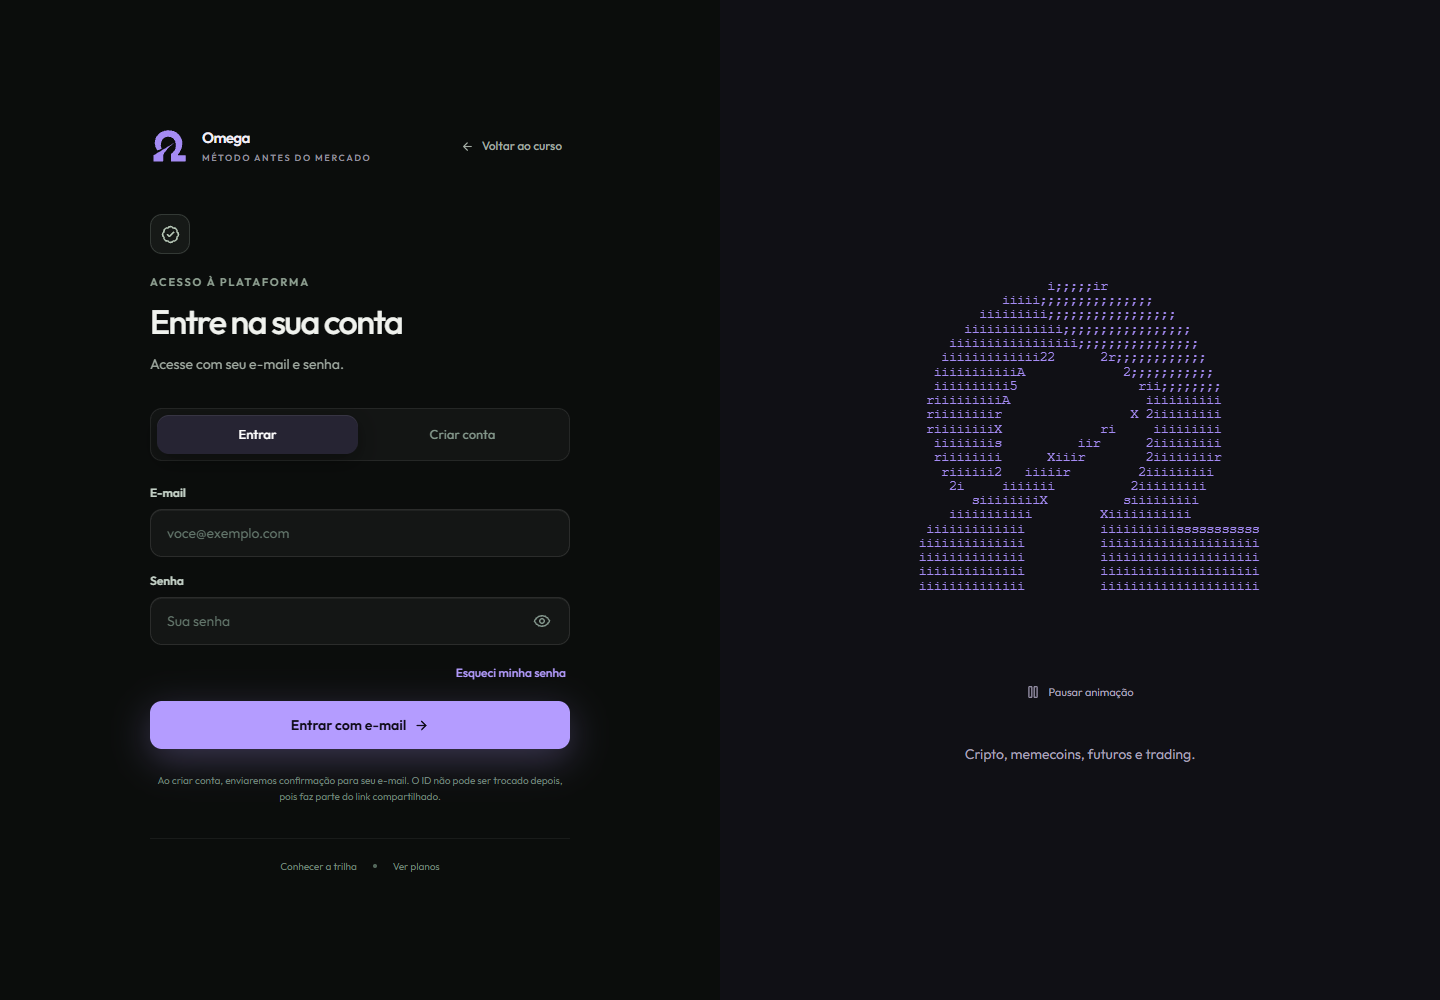
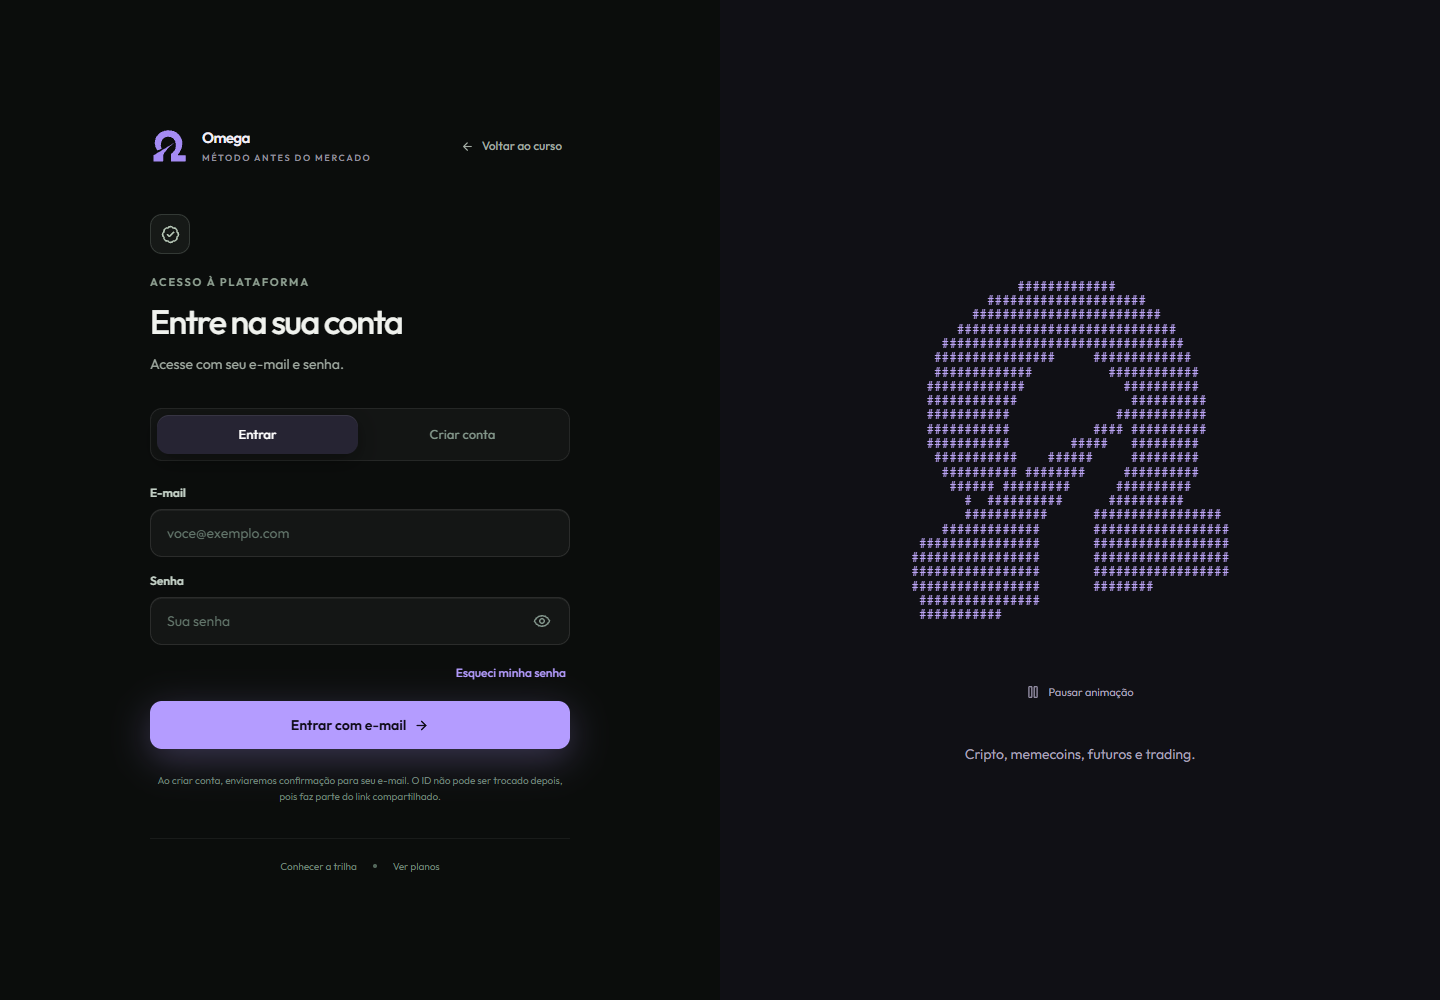
fix: make Omega login animation visible across screen sizes

Changed region(s): [[0.625, 0.279, 0.875, 0.62]]

diff --git a/src/components/ui/omega-login-ascii.tsx b/src/components/ui/omega-login-ascii.tsx
@@ -7,6 +7,7 @@ import { omegaContours } from '@/lib/omega-copy'
 
 export interface AsciiModelViewerProps {
   className?: string; paused?: boolean; baseScale?: number; userScale?: number
+  motionEnabled?: boolean
   resolution?: number; characters?: string; fgColor?: string; bgColor?: string
   invert?: boolean; autoRotateSpeed?: number; position?: [number, number, number]
   showLoadingOverlay?: boolean
@@ -31,8 +32,8 @@ function Trajectory({ scale, paused, speed }: { scale: number; paused: boolean; 
   const geometries = useMemo(() => {
     const svg = `<svg xmlns="http://www.w3.org/2000/svg">${omegaContours.map(d => `<path d="${d}"/>`).join('')}</svg>`
     return new SVGLoader().parse(svg).paths.flatMap(path => SVGLoader.createShapes(path as unknown as Parameters<typeof SVGLoader.createShapes>[0]).map(shape => {
-      const geometry = new ExtrudeGeometry(shape, { depth: 12, bevelEnabled: true, bevelSegments: 2, steps: 1, bevelSize: 1, bevelThickness: 1, curveSegments: 24 })
-      geometry.translate(-120, -110, -6)
+      const geometry = new ExtrudeGeometry(shape, { depth: 20, bevelEnabled: true, bevelSegments: 2, steps: 1, bevelSize: 1, bevelThickness: 1, curveSegments: 24 })
+      geometry.translate(-120, -110, -10)
       return geometry
     }))
   }, [])
@@ -40,10 +41,12 @@ function Trajectory({ scale, paused, speed }: { scale: number; paused: boolean; 
   useFrame((_, delta) => {
     if (!group.current || paused) return
     phase.current += Math.min(delta, .1) * speed
-    group.current.rotation.y = Math.sin(phase.current) * .21
-    group.current.rotation.x = Math.sin(phase.current * .65) * .06
+    group.current.rotation.y = Math.sin(phase.current) * .55
+    group.current.rotation.x = Math.sin(phase.current * .65) * .1
   })
-  return <group ref={group} scale={[.01 * scale, -.01 * scale, .01 * scale]}>{geometries.map((geometry, i) => <mesh key={i} geometry={geometry}><meshStandardMaterial color="#bca5f6" roughness={.55} metalness={.15} /></mesh>)}</group>
+  // AsciiEffect maps bright pixels to spaces; keep the material dark enough
+  // to retain the silhouette while lighting reveals the extruded edges.
+  return <group ref={group} scale={[.01 * scale, -.01 * scale, .01 * scale]}>{geometries.map((geometry, i) => <mesh key={i} geometry={geometry}><meshStandardMaterial color="#302638" roughness={.7} metalness={0} /></mesh>)}</group>
 }
 
 function AsciiRenderer({ resolution, characters, fgColor, bgColor, invert, paused }: Required<Pick<AsciiModelViewerProps, 'resolution' | 'characters' | 'fgColor' | 'bgColor' | 'invert' | 'paused'>>) {
@@ -73,11 +76,11 @@ function AsciiRenderer({ resolution, characters, fgColor, bgColor, invert, pause
   return null
 }
 
-export default function AsciiModelViewer({ className = '', paused = false, baseScale = 1, userScale = 1, resolution = .14, characters = ' .,:;irsXA253hMHGS#9B&@', fgColor = 'var(--omega-accent)', bgColor = 'transparent', invert = false, autoRotateSpeed = .5 }: AsciiModelViewerProps) {
-  const [staticMode, ready] = useStaticMode()
+export default function AsciiModelViewer({ className = '', paused = false, motionEnabled = false, baseScale = 1, userScale = 1, resolution = .14, characters = ' .:+###', fgColor = '#bca5f6', bgColor = 'transparent', invert = false, autoRotateSpeed = .85 }: AsciiModelViewerProps) {
+  const [staticMode, ready] = useStaticMode(motionEnabled)
   return <div className={`ascii-viewer ${className}`} aria-hidden="true">
     {!ready || staticMode ? <StaticMark /> : <SceneBoundary><Canvas frameloop="demand" dpr={1} camera={{ position: [0, 0, 3.4], fov: 43 }} gl={{ alpha: true, antialias: false, powerPreference: 'low-power' }} fallback={<StaticMark />}>
-      <ambientLight intensity={1.7} /><directionalLight position={[2, 3, 5]} intensity={3} color="#e2d7fa" />
+      <ambientLight intensity={.8} /><directionalLight position={[2, 3, 5]} intensity={1.5} color="#e2d7fa" />
       <Trajectory scale={baseScale * userScale} paused={paused} speed={autoRotateSpeed} />
       <AsciiRenderer resolution={resolution} characters={characters} fgColor={fgColor} bgColor={bgColor} invert={invert} paused={paused} />
     </Canvas></SceneBoundary>}
@@ -85,18 +88,15 @@ export default function AsciiModelViewer({ className = '', paused = false, baseS
 }
 
 // Render a deterministic flat fallback first, including SSR and reduced-motion devices.
-function useStaticMode() {
+function useStaticMode(motionEnabled: boolean) {
   const [value, setValue] = useState<[boolean, boolean]>([true, false])
   useEffect(() => {
     const query = matchMedia('(prefers-reduced-motion: reduce)')
-    const mobile = matchMedia('(max-width: 1023px)')
     const update = () => {
-      const memory = (navigator as Navigator & { deviceMemory?: number }).deviceMemory
-      const constrained = (memory !== undefined && memory <= 2) || (navigator.hardwareConcurrency > 0 && navigator.hardwareConcurrency <= 2)
-      setValue([query.matches || mobile.matches || constrained, true])
+      setValue([query.matches && !motionEnabled, true])
     }
-    update(); query.addEventListener('change', update); mobile.addEventListener('change', update)
-    return () => { query.removeEventListener('change', update); mobile.removeEventListener('change', update) }
-  }, [])
+    update(); query.addEventListener('change', update)
+    return () => query.removeEventListener('change', update)
+  }, [motionEnabled])
   return value
 }

diff --git a/src/components/omega-login-scene.tsx b/src/components/omega-login-scene.tsx
@@ -1,4 +1,4 @@
-import { lazy, Suspense, useState } from 'react'
+import { lazy, Suspense, useState, useSyncExternalStore } from 'react'
 import { useReducedMotion } from 'framer-motion'
 import { Pause, Play } from 'lucide-react'
 import { OmegaSymbol } from '@/components/brand'
@@ -6,16 +6,27 @@ import { omegaCopy } from '@/lib/omega-copy'
 
 const OmegaAscii = lazy(() => import('@/components/ui/omega-login-ascii'))
 function StaticSymbol() { return <div className="omega-login-static"><OmegaSymbol /></div> }
+function subscribeViewport(notify: () => void) {
+  const query = matchMedia('(min-width: 1024px)')
+  query.addEventListener('change', notify)
+  return () => query.removeEventListener('change', notify)
+}
+const desktopSnapshot = () => matchMedia('(min-width: 1024px)').matches
 
-export function OmegaLoginScene() {
+export function OmegaLoginScene({ compact = false }: { compact?: boolean }) {
   const reducedMotion = useReducedMotion()
   const [paused, setPaused] = useState(false)
-  return <div className="omega-login-scene">
+  const [motionRequested, setMotionRequested] = useState(false)
+  const desktop = useSyncExternalStore(subscribeViewport, desktopSnapshot, () => true)
+  const animated = !reducedMotion || motionRequested
+  // Mount only the scene visible at this breakpoint, avoiding a hidden second canvas.
+  if (compact === desktop) return null
+  return <div className={`omega-login-scene${compact ? ' omega-login-scene-compact' : ''}`}>
     <div className="omega-login-model" aria-hidden="true">
-      {reducedMotion ? <StaticSymbol /> : <Suspense fallback={<StaticSymbol />}><OmegaAscii paused={paused} /></Suspense>}
+      {!animated ? <StaticSymbol /> : <Suspense fallback={<StaticSymbol />}><OmegaAscii paused={paused} motionEnabled={motionRequested} resolution={compact ? .2 : .14} /></Suspense>}
     </div>
-    {!reducedMotion && <button type="button" className="omega-login-pause" aria-pressed={paused} onClick={() => setPaused(value => !value)}>
+    {animated ? <button type="button" className="omega-login-pause" aria-pressed={paused} onClick={() => setPaused(value => !value)}>
       {paused ? <Play size={14} /> : <Pause size={14} />}{paused ? omegaCopy.resume : omegaCopy.pause}
-    </button>}
+    </button> : <button type="button" className="omega-login-pause" onClick={() => setMotionRequested(true)}><Play size={14} />Ativar animação</button>}
   </div>
 }

diff --git a/src/styles/omega-refinements.css b/src/styles/omega-refinements.css
@@ -9,6 +9,12 @@
 .omega-login-pause { display:flex; align-items:center; justify-content:center; gap:8px; margin:16px auto 0; min-height:40px; padding:8px 12px; background:none; color:#aaa3bc; font-size:11px; cursor:pointer; }
 .omega-login-pause:hover { color:#eee8ff; }
 .omega-login-pause:focus-visible { outline:2px solid #a58bf4; outline-offset:4px; }
+.omega-login-scene-compact { margin:-24px auto 24px; }
+.omega-login-scene-compact .omega-login-model { height:160px; }
+.omega-login-scene-compact .omega-login-pause { margin-top:0; }
+@media(max-width:1023px) {
+  .omega-login .login-enter > div:first-child { display:none; }
+}
 .omega-feature { display:grid; grid-template-columns:50px minmax(0,1fr) auto; align-items:center; gap:24px; padding:28px 0; border-bottom:1px solid rgba(255,255,255,.08); }
 .omega-feature:first-child { border-top:1px solid rgba(255,255,255,.08); }
 .omega-feature-number { color:#a58bf4; font-size:13px; font-variant-numeric:tabular-nums; }

diff --git a/src/pages/login-page.tsx b/src/pages/login-page.tsx
@@ -277,6 +277,7 @@ export function LoginPage() {
             </Link>
           </div>
 
+          <OmegaLoginScene compact />
           <div className="login-enter mb-8">
             <div className="mb-5 grid size-10 place-items-center rounded-xl border border-[#a7b8a9]/20 bg-[#a7b8a9]/[.07] text-[#b7c8b7]">
               <BadgeCheck size={19} />

diff --git a/docs/omega/implementacao.md b/docs/omega/implementacao.md
@@ -2,15 +2,18 @@
 
 A marca da plataforma agora é **Omega**, sem acento. O símbolo aparece sem moldura, arredondamento, fundo de placa ou sombra no componente compartilhado e no footer. Metadados, navegação e assinaturas SVG usam o mesmo nome. O título do curso Cripto do Zero foi preservado onde identifica o curso.
 
-O login tem uma cena própria em `src/components/ui/omega-login-ascii.tsx`. A geometria extrudada vem dos paths do símbolo Trajetória, e `AsciiEffect` converte sua renderização em caracteres. O painel permite pausar/retomar; com movimento reduzido ou limitações do dispositivo, mostra o símbolo estático. O renderer de Bitcoin existente permanece inalterado.
+O login tem uma cena própria em `src/components/ui/omega-login-ascii.tsx`. A geometria extrudada vem dos paths do símbolo Trajetória, e `AsciiEffect` converte sua renderização em caracteres. O painel permite pausar/retomar. No celular, uma cena compacta aparece acima do formulário; apenas o canvas visível é montado. Com movimento reduzido, mostra o símbolo estático e oferece “Ativar animação” por escolha explícita. Sem WebGL, permanece estático. O renderer de Bitcoin existente permanece inalterado.
+
+A correção de visibilidade ajustou a iluminação para que a conversão ASCII não transforme a superfície em espaços, aumentou a oscilação e usa caracteres `#`, `+`, `:` e `.`. Não há bloqueio automático da animação apenas por largura de tela ou número de núcleos.
 
 A seção de comparação da landing foi substituída por quatro diferenciais ligados a páginas reais: jornadas, memecoins, guias de plataformas e estudo acompanhado. Textos novos estão centralizados em `src/lib/omega-copy.ts`. Traduções ainda não foram implementadas.
 
 Verificações no navegador:
 
-- Canvas e tabela ASCII renderizados no login desktop.
-- Pausa com estado acessível atualizado.
-- Fallback estático com movimento reduzido.
+- Canvas e tabela ASCII visíveis no desktop e no celular, com caracteres não vazios.
+- Comparação de quadros confirma caracteres mudando durante a animação nos dois tamanhos.
+- Comparação de quadros confirma que a pausa mantém os caracteres parados.
+- Fallback estático com movimento reduzido e ativação explícita funcionando.
 - Alternância entre cadastro, entrada e redefinição de senha.
 - Logo com borda de 0 px, raio de 0 px e sombra ausente no login, header e footer.
 - Quatro diferenciais e ausência da comparação antiga.
